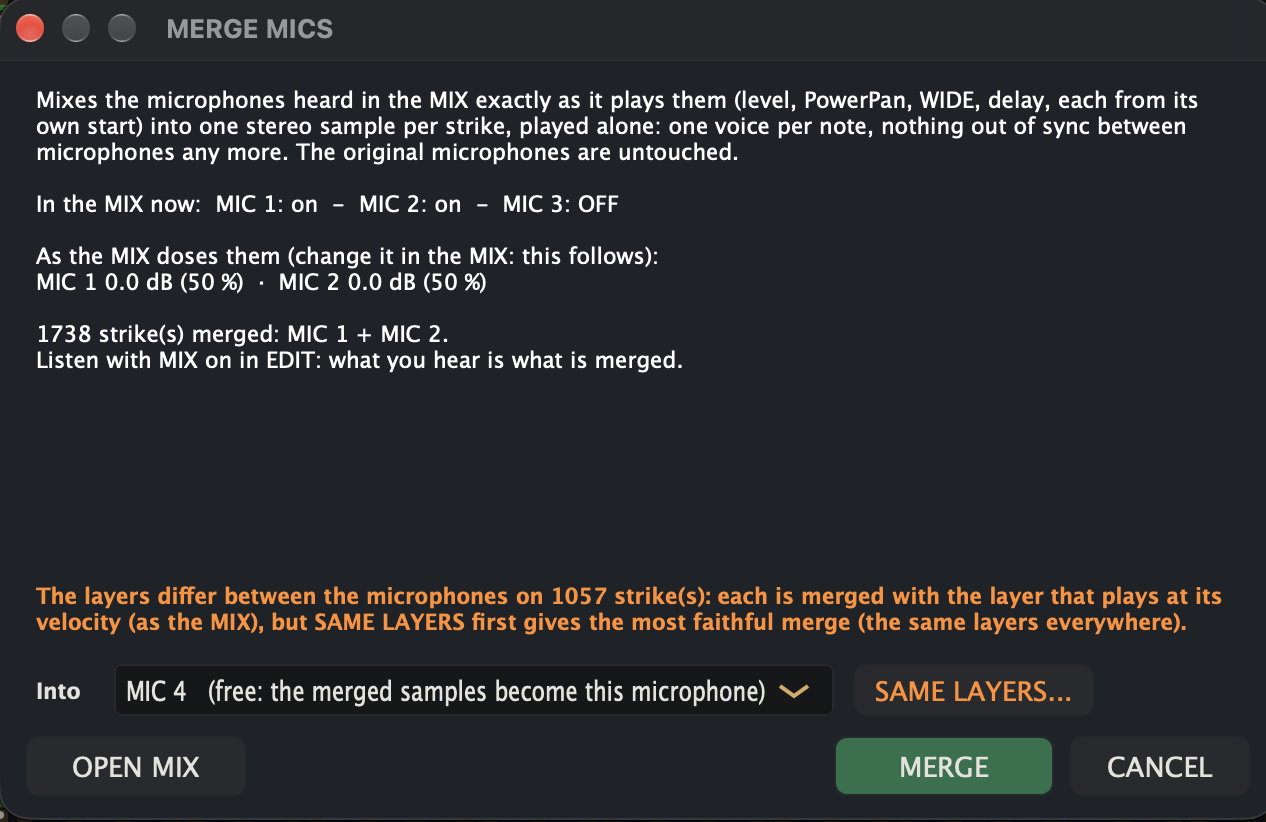
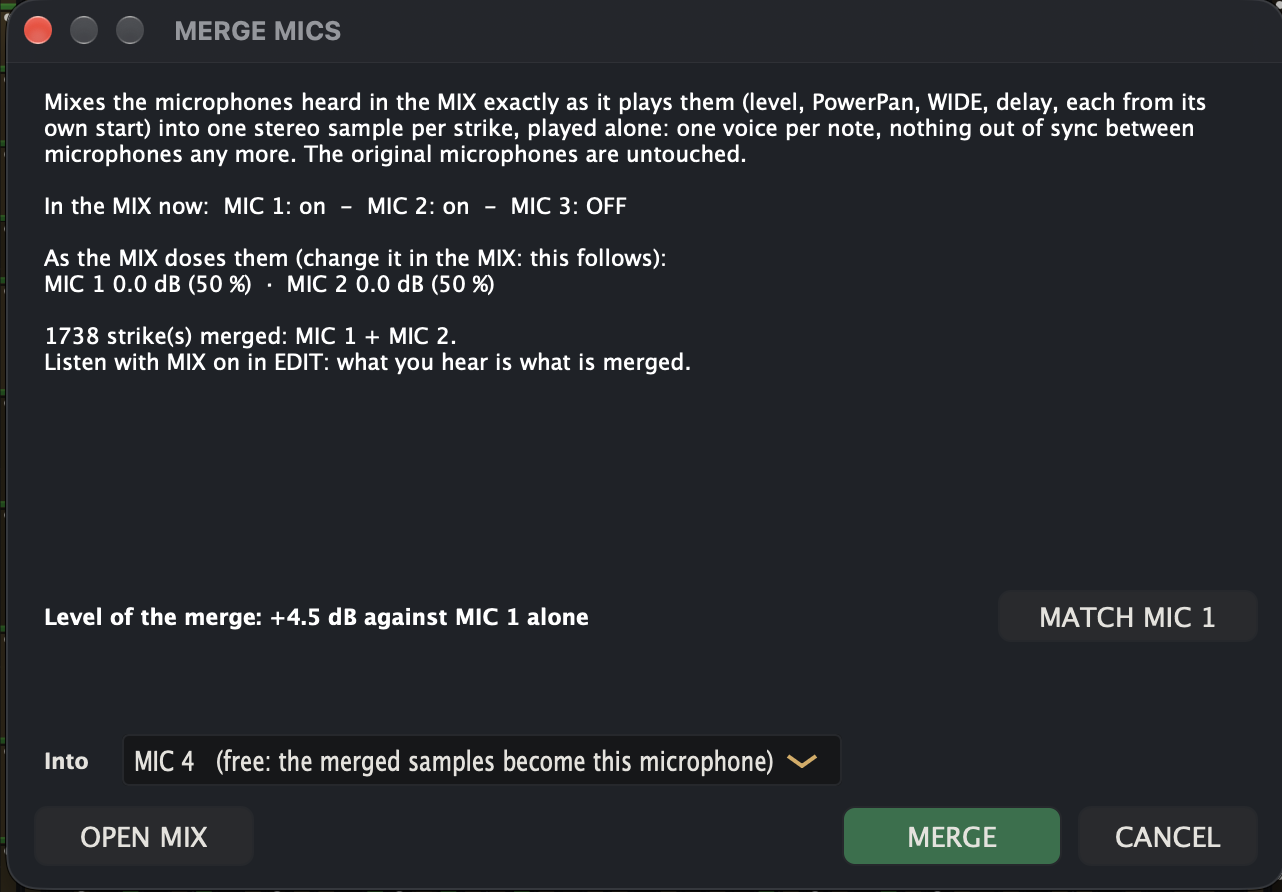
PianoToLife 11.4.5: LIGHTS (lights in time with the music), media buttons by pad, MERGE level + MATCH, lyrics fixes

diff --git a/README.md b/README.md
@@ -8,11 +8,14 @@
   🎚 <b>A complete sampler made for the piano</b> — load any sampled piano or your own recordings: fast mapping tools<br>
   made only for pianos (layers, attacks, hammer colour and strike, several microphones), everything general-purpose samplers lack.<br><br>
   🎤 <b>A media player for the stage</b> — play any recording without its piano and without its voice, with the lyrics<br>
-  in karaoke: made for piano bars, concerts, live shows and productions.
+  in karaoke: made for piano bars, concerts, live shows and productions.<br><br>
+  💡 <b>Lights in time with the music</b> — the piece playing drives your lights program (SoundSwitch…) by MIDI:<br>
+  its tempo, its bars and even its chord changes, divided by 2 or 4 from a pad.<br><br>
+  <b>Everything a piano or band live show needs, in one program.</b>
 </p>
 
 <p align="center">
-  <img src="Screenshot-A.png?v=1144" alt="PianoToLife: the main window (SAMPLER mode, a sampled Steinway B; the MIDI player's line with BAR n : b)" width="900">
+  <img src="Screenshot-A.png?v=1145" alt="PianoToLife: the main window (SAMPLER mode, a sampled Steinway B; the MIDI player's line with BAR n : b)" width="900">
 </p>
 
 <p align="center">
@@ -59,11 +62,11 @@ release or resonance samples. A 3- to 6-layer pedal-up library is enough: PianoT
 so it plays like a deeply sampled piano, even when the library is badly cut or normalised.
 
 <p align="center">
-  <img src="Screenshot-E.png?v=1144" alt="SAMPLER EDIT (11.4.4): the DRY / DENOISE / BODY panel with PHASE FIX (PIANO PLAYS ORIG. / V1-V3), MERGE MICS, PLAYS above the key panel, and the tools in their order: FILL GAPS > ALIGN ATTACKS > AUTO DYN > FIX STEPS > KEY ATTACK > KEY COLOR > AUTO COLOR > AUTO GAIN > AUTO PAN > AUTO RELEASE > SAME LAYERS" width="900">
+  <img src="Screenshot-E.png?v=1145" alt="SAMPLER EDIT (11.4.4): the DRY / DENOISE / BODY panel with PHASE FIX (PIANO PLAYS ORIG. / V1-V3), MERGE MICS, PLAYS above the key panel, and the tools in their order: FILL GAPS > ALIGN ATTACKS > AUTO DYN > FIX STEPS > KEY ATTACK > KEY COLOR > AUTO COLOR > AUTO GAIN > AUTO PAN > AUTO RELEASE > SAME LAYERS" width="900">
 </p>
 
 <p align="center">
-  <img src="Screenshot-J.png?v=1144" alt="SAMPLER EDIT: LISTEN from one velocity to another - ALL 1-127, THIS LAYER, ITS BOUNDARY" width="520">
+  <img src="Screenshot-J.png?v=1145" alt="SAMPLER EDIT: LISTEN from one velocity to another - ALL 1-127, THIS LAYER, ITS BOUNDARY" width="520">
 </p>
 
 
@@ -73,7 +76,7 @@ Load a song, a playlist, a folder or a video, and play your piano with it. The M
 (29 EUR or 29 USD minimum, one payment, no subscription; 3 minutes of demo per session without the password).
 
 <p align="center">
-  <img src="Screenshot-B.png?v=1144" alt="The MEDIA player with FOLDERS (DUPLICATES, STEMS READY) and the pieces (SEARCH, BY TAGS) at its left; VIDEO and KARAOKE, AUTO, SPEED, LEVEL and CEIL., Play at A4 and TRANSP., NO VOICE / NO PIANO / VOICE / PIANO, HE / SHE / BOTH, CLEAN PIANO, KEEP STEMS, STEMS READY, LIVE STEMS, LYRICS, EDIT LYRICS" width="900">
+  <img src="Screenshot-B.png?v=1145" alt="The MEDIA player with FOLDERS (DUPLICATES, STEMS READY) and the pieces (SEARCH, BY TAGS) at its left; VIDEO and KARAOKE, AUTO, SPEED, LEVEL and CEIL., Play at A4 and TRANSP., NO VOICE / NO PIANO / VOICE / PIANO, HE / SHE / BOTH, CLEAN PIANO, KEEP STEMS, STEMS READY, LIVE STEMS, LYRICS, EDIT LYRICS" width="900">
 </p>
 
 - **NO VOICE / NO PIANO / CLEAN PIANO**: the piece separated once on your computer (kept in the stems folder: Samples/Stems, or a folder you choose, shared on the network), then played
@@ -84,7 +87,7 @@ Load a song, a playlist, a folder or a video, and play your piano with it. The M
   network. Then **MASTER** on the one you play on and **FOLLOW** on the other (11.3.4): it separates what you ask.
 
 <p align="center">
-  <img src="Screenshot-I.png?v=1144" alt="Right-click FAST / QUALITY: the stems folder (one shared on the network lets another computer separate for this one), LOCAL / MASTER / FOLLOW" width="520">
+  <img src="Screenshot-I.png?v=1145" alt="Right-click FAST / QUALITY: the stems folder (one shared on the network lets another computer separate for this one), LOCAL / MASTER / FOLLOW" width="520">
 </p>
 
 - **In tune and in your key**: *Play at A4* plays the recording at the A4 of your piano (432 to 448 Hz), and **TRANSP.**
@@ -100,7 +103,7 @@ Load a song, a playlist, a folder or a video, and play your piano with it. The M
   film in several languages.
 
 <p align="center">
-  <img src="Screenshot-F.png?v=1144" alt="PADS: 4 x 4 pads on 5 pages, a MIDI controller, MEDIA or PAD, TOGGLE or HOLD, MIDI LEARN" width="640">
+  <img src="Screenshot-F.png?v=1145" alt="PADS: 4 x 4 pads on 5 pages, a MIDI controller, MEDIA or PAD, TOGGLE or HOLD, MIDI LEARN" width="640">
 </p>
 
 > **Disk space.** A file that macOS or Windows cannot read directly — a video's sound (MP4, MOV...), a format decoded by
@@ -113,7 +116,7 @@ Load a song, a playlist, a folder or a video, and play your piano with it. The M
 > large disk for it.
 
 <p align="center">
-  <img src="Screenshot-D.png?v=1144" alt="VIDEO with FOR LIVE: the line sung framed, the next one in full colour (the picture blurred here)" width="900">
+  <img src="Screenshot-D.png?v=1145" alt="VIDEO with FOR LIVE: the line sung framed, the next one in full colour (the picture blurred here)" width="900">
 </p>
 
 - **CHORDS**: the chords and the key of the piece, scrolling in time with it (and transposed with it).
@@ -124,7 +127,7 @@ Load a song, a playlist, a folder or a video, and play your piano with it. The M
 ### LYRICS: found, corrected, in time
 
 <p align="center">
-  <img src="Screenshot-C.png?v=1144" alt="LYRICS EDIT: the lyrics proposed by LRCLIB, what Whisper heard, the lines aligned on the voice; the duet menu (HE, SHE, 1, 2, BOTH, CHOIR); FIND / REPLACE, STOP, UNDO / REDO, DELETE LYRICS, TIMES" width="900">
+  <img src="Screenshot-C.png?v=1145" alt="LYRICS EDIT: the lyrics proposed by LRCLIB, what Whisper heard, the lines aligned on the voice; the duet menu (HE, SHE, 1, 2, BOTH, CHOIR); FIND / REPLACE, STOP, UNDO / REDO, DELETE LYRICS, TIMES" width="900">
 </p>
 
 - **LYRICS** listens to the separated voice of the piece and writes its lyrics in time (Whisper, on your computer). The
@@ -136,7 +139,55 @@ Load a song, a playlist, a folder or a video, and play your piano with it. The M
 
 ---
 
-## What's new in 11.4.4
+## What's new in 11.4.5
+
+**LIGHTS: your show's lights in time with the music - its tempo, its bars and even its chord changes.**
+
+- **LIGHTS** (new): the piece playing drives a lights program (DMX software such as SoundSwitch) by MIDI. **The clock**
+  (MIDI clock, Start / Stop): its loops and effects follow the piece's tempo. **BEAT**: a note at each beat (36; 37 on
+  a bar's first beat). **CHORDS**: a note at each chord change, 48 + its root (C3 = C ... B3 = B) - give each root its
+  own scene: the lights change with the harmony, not only with the beat. **DIVIDE 1 · /2 · /4**: every beat or chord,
+  or every 2nd or 4th - the clock too (/2: the lights at half the tempo, for a verse; 1 for the chorus). The beats: the
+  MIDI file's bars (MIDI player) or CHORDS' grid (media player, analysed by itself). A **LIGHTS** button in the MIDI
+  player's bar (beside METRO) and in the media player's top row (beside CHORDS): click on / off; right-click: OUT,
+  SEND (BEAT / CHORDS / BOTH), DIVIDE, MIDI PAD / CONTROLLER. Only what LIGHTS makes is sent - never what you play.
+  - **Mac**: PianoToLife makes its own MIDI port, **"PianoToLife Lights"**, at launch - choose it in the lights program
+    (SoundSwitch: MIDI Sync In). Nothing to install. It stays open: LIGHTS off only stops sending.
+  - **Windows**: a loopback MIDI port is needed between the two programs (loopMIDI, or Windows 11's own loopback
+    ports), or a MIDI port of the lights program itself: choose it in OUT (right-click on LIGHTS).
+- **A pad for each LIGHTS action** (right-click on LIGHTS > MIDI PAD / CONTROLLER): LIGHTS ON / OFF, DIVIDE 1 / 2 / 4,
+  SEND BEAT / CHORDS / BOTH - LEARN, hit the pad. A pad's DIVIDE changes on the next beat: the lights stay in time.
+- **The media player's buttons by a pad**: right-click on PLAY, STOP, previous, next, LOOP, NO VOICE, NO PIANO, VOICE,
+  PIANO > MIDI PAD LEARN. The pad's note is taken away (never played on the piano nor recorded). Works with the
+  controller chosen in PADS, or one enabled in the MIDI settings.
+- **A show in a few minutes** (example: SoundSwitch): take "PianoToLife Lights" as its MIDI sync input; SEND BOTH; map
+  notes 48-59 to scenes or loops; a pad for /2 or /4 in the verses and one for 1 in the choruses.
+- **MERGE MICS: the level of the merge**: the window says how loud the merge is against the first microphone alone
+  (measured as MERGE mixes, again at each change of the MIX; orange above +6 dB), and **MATCH** lowers every microphone
+  heard in the MIX by that amount, their proportions kept. MERGE still merges exactly what the MIX plays. The rule:
+  the same sample on 2 / 3 / 4 / 5 microphones adds +6 / +9.5 / +12 / +14 dB; real, different microphones about
+  +3 / +5 / +6 / +7 dB. Nothing ever clips (one common headroom, given back when played).
+- **"Sampler: 2816 samples (1408 heard)"**: the main window also says how many samples the MIX plays (a merge into a
+  version keeps the other microphones' samples, switched off).
+- **Lyrics in the language sung**: with a language chosen (LANG: EN...), a piece sung in another one came out
+  translated. The voice's language is now checked first; clearly another one: written in it, and said.
+- **LRCLIB's lyrics checked on the voice by themselves**: taken while the piece was still being separated, their
+  times could not be checked (another version: a minute off). Now said in orange ("NOT checked on the voice yet -
+  separating 86 %"), and as soon as the voice is there they are timed on it, their text kept. LYRICS EDIT shows the
+  analysis' and the separation's progress on its status line.
+- **Fix (in live)**: the pieces' column of the media player could be late on the playlist (a file added and another
+  removed): a click played the neighbour of the piece shown. The column now follows every change, and a click always
+  plays the piece it shows.
+
+<p align="center">
+  <img src="Screenshot-U.png?v=1145" alt="The media player with LIGHTS beside CHORDS" width="900">
+</p>
+<p align="center">
+  <img src="Screenshot-V.png?v=1145" alt="LIGHTS (right-click): ON, OUT: PianoToLife Lights, SEND: BOTH, DIVIDE: /2, MIDI PAD / CONTROLLER" width="560">
+  <img src="Screenshot-W.png?v=1145" alt="LIGHTS > MIDI PAD / CONTROLLER: a pad for each action" width="560">
+</p>
+
+### Also in 11.4.4
 
 **Several microphones played as one, hollow notes put back in phase, and a VOICE that follows the singer.**
 
@@ -171,7 +222,7 @@ Load a song, a playlist, a folder or a video, and play your piano with it. The M
 - **Tooltips** in the DRY, LISTEN, TEMPERAMENT, UNA CORDA, METRONOME and playlist search panels (they never showed one).
 
 <p align="center">
-  <img src="Screenshot-T.png?v=1144" alt="MERGE MICS: the window beside the MIX - each microphone's state, the MIX's shares, the layers that differ (SAME LAYERS...), Into a free microphone or a version V1-V3" width="640">
+  <img src="Screenshot-T.png?v=1145" alt="MERGE MICS: the window beside the MIX - each microphone's state, the MIX's shares, the layers that differ (SAME LAYERS...), Into a free microphone or a version V1-V3" width="640">
 </p>
 
 ### Also in 11.4.3
@@ -230,13 +281,13 @@ Load a song, a playlist, a folder or a video, and play your piano with it. The M
   again.
 
 <p align="center">
-  <img src="Screenshot-Q.png?v=1144" alt="SAMPLER EDIT: SAME LAYERS, the reference microphone chosen" width="760">
+  <img src="Screenshot-Q.png?v=1145" alt="SAMPLER EDIT: SAME LAYERS, the reference microphone chosen" width="760">
 </p>
 <p align="center">
-  <img src="Screenshot-R.png?v=1144" alt="SAMPLER EDIT: KEY COLOR, already measured - TURN IT ON / MEASURE AGAIN / TAKE IT OFF" width="640">
+  <img src="Screenshot-R.png?v=1145" alt="SAMPLER EDIT: KEY COLOR, already measured - TURN IT ON / MEASURE AGAIN / TAKE IT OFF" width="640">
 </p>
 <p align="center">
-  <img src="Screenshot-S.png?v=1144" alt="SAMPLER EDIT: KEY ATTACK, already measured (reference key, strength) - TURN IT ON / MEASURE AGAIN / TAKE IT OFF" width="640">
+  <img src="Screenshot-S.png?v=1145" alt="SAMPLER EDIT: KEY ATTACK, already measured (reference key, strength) - TURN IT ON / MEASURE AGAIN / TAKE IT OFF" width="640">
 </p>
 
 ### Also in 11.4.2
@@ -285,7 +336,7 @@ Load a song, a playlist, a folder or a video, and play your piano with it. The M
 - **Mac**: the main window's "-" puts it in the Dock.
 
 <p align="center">
-  <img src="Screenshot-L.png?v=1144" alt="MAGIC VIEW (MIDI): PLAY / PAUSE, STOP, BAR 117 : 4, 4/4 117 BPM, GO TO BAR, the time; a line and a number at each bar, the beats fainter; STAFF above" width="900">
+  <img src="Screenshot-L.png?v=1145" alt="MAGIC VIEW (MIDI): PLAY / PAUSE, STOP, BAR 117 : 4, 4/4 117 BPM, GO TO BAR, the time; a line and a number at each bar, the beats fainter; STAFF above" width="900">
 </p>
 
 ### Also in 11.4.0
@@ -305,7 +356,7 @@ Load a song, a playlist, a folder or a video, and play your piano with it. The M
   **PREPARE STEMS** (a click separates the piece), **PREPARING n %**, **STEMS READY** (green).
 
 <p align="center">
-  <img src="Screenshot-K.png?v=1144" alt="AUTO COLOR: SOFT, MEDIUM, HARD, Never brighter than the reference (on), Never darker than the piano is (off)" width="520">
+  <img src="Screenshot-K.png?v=1145" alt="AUTO COLOR: SOFT, MEDIUM, HARD, Never brighter than the reference (on), Never darker than the piano is (off)" width="520">
 </p>
 
 ### Also in 11.3.8
@@ -480,11 +531,11 @@ Load a song, a playlist, a folder or a video, and play your piano with it. The M
 - **STEMS READY** lists each separated piece once.
 
 <p align="center">
-  <img src="Screenshot-G.png?v=1144" alt="TEMPERAMENT (SAMPLER): Equal, Stretch 100 %, FIX KEYS and CLEAR FIX, the table Recorded / Played / Shift" width="640">
+  <img src="Screenshot-G.png?v=1145" alt="TEMPERAMENT (SAMPLER): Equal, Stretch 100 %, FIX KEYS and CLEAR FIX, the table Recorded / Played / Shift" width="640">
 </p>
 
 <p align="center">
-  <img src="Screenshot-H.png?v=1144" alt="TEMPERAMENT (HOST): the hosted piano tuned to Equal, Stretch 100 %, FIX KEYS, EXPORT .txt + .scl" width="640">
+  <img src="Screenshot-H.png?v=1145" alt="TEMPERAMENT (HOST): the hosted piano tuned to Equal, Stretch 100 %, FIX KEYS, EXPORT .txt + .scl" width="640">
 </p>
 
 ### Also in 11.2.6
@@ -624,16 +675,16 @@ everything at the new rate.
 ### More screenshots (11.4.1)
 
 <p align="center">
-  <img src="Screenshot-N.png?v=1144" alt="MAGIC VIEW (Media) with STAFF, CHORDS with HE / SHE / BOTH, and the MEDIA player" width="900">
+  <img src="Screenshot-N.png?v=1145" alt="MAGIC VIEW (Media) with STAFF, CHORDS with HE / SHE / BOTH, and the MEDIA player" width="900">
 </p>
 <p align="center">
-  <img src="Screenshot-M.png?v=1144" alt="The compact view: the MIDI player's line with BAR n : b" width="700">
+  <img src="Screenshot-M.png?v=1145" alt="The compact view: the MIDI player's line with BAR n : b" width="700">
 </p>
 <p align="center">
-  <img src="Screenshot-O.png?v=1144" alt="LOAD MIDI's menu: a folder, a playlist, LOOP, the MIDI files' controllers / tuning / channels, the recent files" width="640">
+  <img src="Screenshot-O.png?v=1145" alt="LOAD MIDI's menu: a folder, a playlist, LOOP, the MIDI files' controllers / tuning / channels, the recent files" width="640">
 </p>
 <p align="center">
-  <img src="Screenshot-P.png?v=1144" alt="REC by a MIDI controller (LEARN), and REC and PLAY with the media's audio (SYNC)" width="640">
+  <img src="Screenshot-P.png?v=1145" alt="REC by a MIDI controller (LEARN), and REC and PLAY with the media's audio (SYNC)" width="640">
 </p>
 
 The full history of the earlier versions: **[CHANGELOG.md](CHANGELOG.md)**.

diff --git a/CHANGELOG.md b/CHANGELOG.md
@@ -2,6 +2,46 @@
 
 Every version, the newest first. The [README](README.md) shows what PianoToLife does today.
 
+## 11.4.5
+
+**LIGHTS: your show's lights in time with the music - its tempo, its bars and even its chord changes.**
+
+- **LIGHTS** (new): the piece playing drives a lights program (DMX software such as SoundSwitch) by MIDI. **The clock**
+  (MIDI clock, Start / Stop): its loops and effects follow the piece's tempo. **BEAT**: a note at each beat (36; 37 on
+  a bar's first beat). **CHORDS**: a note at each chord change, 48 + its root (C3 = C ... B3 = B) - give each root its
+  own scene: the lights change with the harmony, not only with the beat. **DIVIDE 1 · /2 · /4**: every beat or chord,
+  or every 2nd or 4th - the clock too (/2: the lights at half the tempo, for a verse; 1 for the chorus). The beats: the
+  MIDI file's bars (MIDI player) or CHORDS' grid (media player, analysed by itself). A **LIGHTS** button in the MIDI
+  player's bar (beside METRO) and in the media player's top row (beside CHORDS): click on / off; right-click: OUT,
+  SEND (BEAT / CHORDS / BOTH), DIVIDE, MIDI PAD / CONTROLLER. Only what LIGHTS makes is sent - never what you play.
+  - **Mac**: PianoToLife makes its own MIDI port, **"PianoToLife Lights"**, at launch - choose it in the lights program
+    (SoundSwitch: MIDI Sync In). Nothing to install. It stays open: LIGHTS off only stops sending.
+  - **Windows**: a loopback MIDI port is needed between the two programs (loopMIDI, or Windows 11's own loopback
+    ports), or a MIDI port of the lights program itself: choose it in OUT (right-click on LIGHTS).
+- **A pad for each LIGHTS action** (right-click on LIGHTS > MIDI PAD / CONTROLLER): LIGHTS ON / OFF, DIVIDE 1 / 2 / 4,
+  SEND BEAT / CHORDS / BOTH - LEARN, hit the pad. A pad's DIVIDE changes on the next beat: the lights stay in time.
+- **The media player's buttons by a pad**: right-click on PLAY, STOP, previous, next, LOOP, NO VOICE, NO PIANO, VOICE,
+  PIANO > MIDI PAD LEARN. The pad's note is taken away (never played on the piano nor recorded). Works with the
+  controller chosen in PADS, or one enabled in the MIDI settings.
+- **A show in a few minutes** (example: SoundSwitch): take "PianoToLife Lights" as its MIDI sync input; SEND BOTH; map
+  notes 48-59 to scenes or loops; a pad for /2 or /4 in the verses and one for 1 in the choruses.
+- **MERGE MICS: the level of the merge**: the window says how loud the merge is against the first microphone alone
+  (measured as MERGE mixes, again at each change of the MIX; orange above +6 dB), and **MATCH** lowers every microphone
+  heard in the MIX by that amount, their proportions kept. MERGE still merges exactly what the MIX plays. The rule:
+  the same sample on 2 / 3 / 4 / 5 microphones adds +6 / +9.5 / +12 / +14 dB; real, different microphones about
+  +3 / +5 / +6 / +7 dB. Nothing ever clips (one common headroom, given back when played).
+- **"Sampler: 2816 samples (1408 heard)"**: the main window also says how many samples the MIX plays (a merge into a
+  version keeps the other microphones' samples, switched off).
+- **Lyrics in the language sung**: with a language chosen (LANG: EN...), a piece sung in another one came out
+  translated. The voice's language is now checked first; clearly another one: written in it, and said.
+- **LRCLIB's lyrics checked on the voice by themselves**: taken while the piece was still being separated, their
+  times could not be checked (another version: a minute off). Now said in orange ("NOT checked on the voice yet -
+  separating 86 %"), and as soon as the voice is there they are timed on it, their text kept. LYRICS EDIT shows the
+  analysis' and the separation's progress on its status line.
+- **Fix (in live)**: the pieces' column of the media player could be late on the playlist (a file added and another
+  removed): a click played the neighbour of the piece shown. The column now follows every change, and a click always
+  plays the piece it shows.
+
 ## 11.4.4
 
 **Several microphones played as one, hollow notes put back in phase, and a VOICE that follows the singer.**

diff --git a/MANUEL.md b/MANUEL.md
@@ -1,6 +1,6 @@
 # PianoToLife — Manuel d'utilisation
 
-*Version 11.4.4 · [English version](USER_MANUAL.md) · Mapping du sampler : [Manuel du sampler](MANUEL_SAMPLER.md)*
+*Version 11.4.5 · [English version](USER_MANUAL.md) · Mapping du sampler : [Manuel du sampler](MANUEL_SAMPLER.md)*
 
 PianoToLife fait **se comporter un piano virtuel comme un vrai** : les cordes qui résonnent par sympathie, la pédale
 de sustain et la demi-pédale, les étouffoirs, le relâchement, l'una corda, les bruits de la mécanique. Ce manuel
@@ -980,6 +980,38 @@ s'entend souvent tout de suite : la salle du piano se révèle, au lieu d'être 
 - **Accessibilité** : l'interface fonctionne avec les lecteurs d'écran (Narrator / NVDA, VoiceOver) et au clavier.
 
 ---
+
+### LIGHTS : la lumière en rythme avec la musique (11.4.5)
+
+Le morceau qui joue pilote un logiciel de lumière (logiciel DMX comme SoundSwitch) en MIDI, sur le canal 1 :
+- **L'horloge** (MIDI clock, 24 par temps, Start / Stop) : les boucles et effets du logiciel de lumière suivent le tempo.
+- **BEAT** : une note à chaque temps - C1 (36), C#1 (37) au premier temps d'une mesure.
+- **CHORDS** : une note à chaque changement d'accord - 48 + sa fondamentale (C3 = Do ... B3 = Si). Donnez à chaque
+  fondamentale sa propre scène.
+- **DIVIDE 1 · /2 · /4** : chaque temps / accord, ou un sur 2 ou sur 4 - l'horloge aussi (/2 : le logiciel voit la
+  moitié du tempo).
+- **D'où viennent les temps** : les mesures du fichier MIDI (lecteur MIDI) ou la grille de CHORDS (lecteur MEDIA ;
+  LIGHTS demande l'analyse lui-même). Pas encore de grille : rien n'est envoyé, l'infobulle dit pourquoi.
+- **Le bouton LIGHTS** : dans la barre du lecteur MIDI (à côté de METRO) et dans la ligne du haut du lecteur MEDIA (à
+  côté de CHORDS). Clic : allumé / éteint. Clic droit : **OUT** (le port), **SEND** (BEAT / CHORDS / BOTH),
+  **DIVIDE**, **MIDI PAD / CONTROLLER**. Tout est retenu.
+- **Mac** : PianoToLife crée son propre port, **« PianoToLife Lights »**, au lancement - choisissez-le dans le logiciel
+  de lumière (SoundSwitch : MIDI Sync In). Il reste ouvert tant que PianoToLife tourne : LIGHTS éteint arrête seulement
+  l'envoi (Stop).
+- **Windows** : il faut un port MIDI loopback entre les deux logiciels (loopMIDI, ou les ports loopback de Windows 11),
+  ou un port MIDI du logiciel de lumière lui-même : choisissez-le dans OUT. Le port choisi absent : le port de
+  PianoToLife à la place (Mac), et le port choisi réessayé toutes les 3 s.
+- **Par un pad** (MIDI PAD / CONTROLLER) : LEARN d'une note ou d'un CC pour LIGHTS ON / OFF, DIVIDE 1, /2, /4, SEND
+  BEAT, CHORDS, BOTH. La note du pad est retirée (jamais jouée ni enregistrée). DIVIDE au pad change au temps suivant.
+- Seul ce que LIGHTS fabrique est envoyé - jamais les notes que vous jouez au piano.
+
+**Un show en quelques minutes** (SoundSwitch) : prenez « PianoToLife Lights » comme entrée de synchro MIDI ; SEND :
+BOTH ; associez les notes 48-59 (les fondamentales des accords) à des scènes ou des boucles ; un pad pour /2 ou /4
+(couplets : boucles plus calmes) et un pour 1 (refrains) ; un pad LIGHTS ON / OFF pour une ballade calme.
+
+**Les boutons du lecteur MEDIA par un pad** (11.4.5) : clic droit sur PLAY, STOP, précédent, suivant, LOOP, NO VOICE,
+NO PIANO, VOICE, PIANO > MIDI PAD : LEARN (le bouton clignote ; frappez le pad) ou forget. Une frappe appuie sur le
+bouton. Marche avec le contrôleur choisi dans PADS, ou un activé dans les réglages MIDI.
 
 ## 13. CPU et performances
 

diff --git a/USER_MANUAL.md b/USER_MANUAL.md
@@ -1,6 +1,6 @@
 # PianoToLife — User Manual
 
-*Version 11.4.4 · [Version française](MANUEL.md) · Sampler mapping: [Sampler Manual](SAMPLER_MANUAL.md)*
+*Version 11.4.5 · [Version française](MANUEL.md) · Sampler mapping: [Sampler Manual](SAMPLER_MANUAL.md)*
 
 PianoToLife makes a virtual piano **behave like a real one**: the strings that ring in sympathy, the sustain pedal
 and half pedal, the dampers, the release, the una corda, the noises of the mechanism. This manual explains how it
@@ -899,6 +899,35 @@ saved beside it, then the BOUNCE options open); PLAY plays the take at once. LOA
 - **Accessibility**: the interface works with screen readers (Narrator / NVDA, VoiceOver) and from the keyboard.
 
 ---
+
+### LIGHTS: the lights in time with the music (11.4.5)
+
+The piece playing drives a lights program (DMX software such as SoundSwitch) by MIDI, on channel 1:
+- **The clock** (MIDI clock, 24 a beat, Start / Stop): the lights program's loops and effects follow the tempo.
+- **BEAT**: a note at each beat - C1 (36), C#1 (37) on a bar's first beat.
+- **CHORDS**: a note at each chord change - 48 + its root (C3 = C ... B3 = B). Give each root its own scene.
+- **DIVIDE 1 · /2 · /4**: every beat / chord, or every 2nd or 4th - the clock too (/2: the program sees half the tempo).
+- **Where the beats come from**: the MIDI file's bars (MIDI player) or CHORDS' beat grid (media player; LIGHTS asks
+  for the analysis itself). No grid yet: nothing is sent, the tooltip says why.
+- **The button LIGHTS**: in the MIDI player's bar (beside METRO) and in the media player's top row (beside CHORDS).
+  Click: on / off. Right-click: **OUT** (the port), **SEND** (BEAT / CHORDS / BOTH), **DIVIDE**, **MIDI PAD /
+  CONTROLLER**. Everything is remembered.
+- **Mac**: PianoToLife makes its own port, **"PianoToLife Lights"**, at launch - choose it in the lights program
+  (SoundSwitch: MIDI Sync In). It stays open while PianoToLife runs: LIGHTS off only stops sending (Stop).
+- **Windows**: a loopback MIDI port between the two programs is needed (loopMIDI, or Windows 11's own loopback ports),
+  or a MIDI port of the lights program itself: choose it in OUT. The port chosen not there: PianoToLife's own instead
+  (Mac), and the one chosen tried again every 3 s.
+- **By a pad** (MIDI PAD / CONTROLLER): LEARN a note or CC for LIGHTS ON / OFF, DIVIDE 1, /2, /4, SEND BEAT, CHORDS,
+  BOTH. The pad's note is taken away (never played nor recorded). A pad's DIVIDE changes on the next beat.
+- Only what LIGHTS makes is sent - never the notes you play on the piano.
+
+**A show in a few minutes** (SoundSwitch): take "PianoToLife Lights" as its MIDI sync input; SEND: BOTH; map notes
+48-59 (the chord roots) to scenes or loops; learn a pad for /2 or /4 (verses: calmer, slower loops) and one for 1
+(choruses); a pad for LIGHTS ON / OFF for a quiet ballad.
+
+**The media player's buttons by a pad** (11.4.5): right-click on PLAY, STOP, previous, next, LOOP, NO VOICE, NO PIANO,
+VOICE, PIANO > MIDI PAD: LEARN (the button blinks; hit the pad) or forget. A hit presses the button. Works with the
+controller chosen in PADS, or one enabled in the MIDI settings.
 
 ## 13. CPU and performance
 

diff --git a/MANUEL_SAMPLER.md b/MANUEL_SAMPLER.md
@@ -1,6 +1,6 @@
 # Sampler de PianoToLife — Manuel d'utilisation
 
-*Version 11.4.4 · [English version](SAMPLER_MANUAL.md) · Manuel général : [Manuel d'utilisation](MANUEL.md)*
+*Version 11.4.5 · [English version](SAMPLER_MANUAL.md) · Manuel général : [Manuel d'utilisation](MANUEL.md)*
 
 Le sampler intégré de PianoToLife joue **vos propres échantillons de piano**, avec tous les moteurs de PianoToLife
 par-dessus. Ce manuel explique comment transformer un dossier d'échantillons en piano jouable, ce que fait chaque
@@ -435,6 +435,13 @@ frappe dont la couche diffère sur un autre micro est fusionnée avec la couche 
 d'abord donne la fusion la plus fidèle (la fenêtre le dit en orange). Écoutez avec MIX allumé dans EDIT : ce que vous
 entendez est ce qui est fusionné. **SWAP MICS** : clic droit sur un bouton MIC pour échanger deux micros (samples,
 versions, réglages du MIX).
+**11.4.5 — le niveau de la fusion** : la fenêtre MERGE MICS dit le volume de la fusion par rapport au premier micro
+seul (« Level of the merge: +4.5 dB against MIC 1 alone »), mesuré comme MERGE mixe sur ~24 frappes, de nouveau à chaque
+changement du MIX (orange au-delà de +6 dB). **MATCH MIC n** baisse tous les micros entendus dans le MIX d'autant, leurs
+proportions gardées - seul le MIX change. MERGE fusionne toujours exactement ce que joue le MIX. La règle en ajoutant
+des micros à 0 dB : le même sample sur 2 / 3 / 4 / 5 micros +6 / +9,5 / +12 / +14 dB ; de vrais micros différents
+environ +3 / +5 / +6 / +7 dB. Rien ne sature (une marge commune, rendue à la lecture). La fenêtre principale affiche
+« Sampler: 2816 samples (1408 heard) » quand des micros sont éteints dans le MIX.
 
 **Formats.** Les échantillons d'origine restent exactement tels qu'enregistrés. Les échantillons -dry sont toujours en
 **FLAC 24 bits** (sans perte), à la fréquence de l'original, même quand les originaux sont en 16 bits : une fois la

diff --git a/SAMPLER_MANUAL.md b/SAMPLER_MANUAL.md
@@ -1,6 +1,6 @@
 # PianoToLife Sampler — User Manual
 
-*Version 11.4.4 · [Version française](MANUEL_SAMPLER.md) · General manual: [User Manual](USER_MANUAL.md)*
+*Version 11.4.5 · [Version française](MANUEL_SAMPLER.md) · General manual: [User Manual](USER_MANUAL.md)*
 
 PianoToLife's built-in sampler plays **your own piano samples** with all of PianoToLife's engines on top of
 them. This manual explains how to turn a folder of samples into a playable piano, what every button does, and
@@ -404,6 +404,13 @@ its share, the strikes merged): **OPEN MIX**; **SWITCH ON ALL** when fewer than 
 layer differs on another microphone is merged with the layer that plays at its velocity; **SAME LAYERS** first gives the
 most faithful merge (the window says so in orange). Listen with MIX on in EDIT: what you hear is what is merged.
 **SWAP MICS**: right-click on a MIC button swaps two microphones (samples, versions, MIX settings).
+**11.4.5 — the level of the merge**: the MERGE MICS window says how loud the merge is against the first microphone
+alone ("Level of the merge: +4.5 dB against MIC 1 alone"), measured as MERGE mixes on ~24 strikes, again at each change
+of the MIX (orange above +6 dB). **MATCH MIC n** lowers every microphone heard in the MIX by that amount, their
+proportions kept - only the MIX changes. MERGE still merges exactly what the MIX plays. The rule when adding
+microphones at 0 dB: the same sample on 2 / 3 / 4 / 5 microphones +6 / +9.5 / +12 / +14 dB; real, different microphones
+about +3 / +5 / +6 / +7 dB. Nothing clips (one common headroom, given back when played). The main window says
+"Sampler: 2816 samples (1408 heard)" when microphones are off in the MIX.
 
 **Formats.** The original samples stay exactly as recorded. The -dry samples are always **24-bit FLAC** (lossless), at
 the original's sample rate, even when the originals are 16-bit: once the room and the hiss are taken out, the tails of
